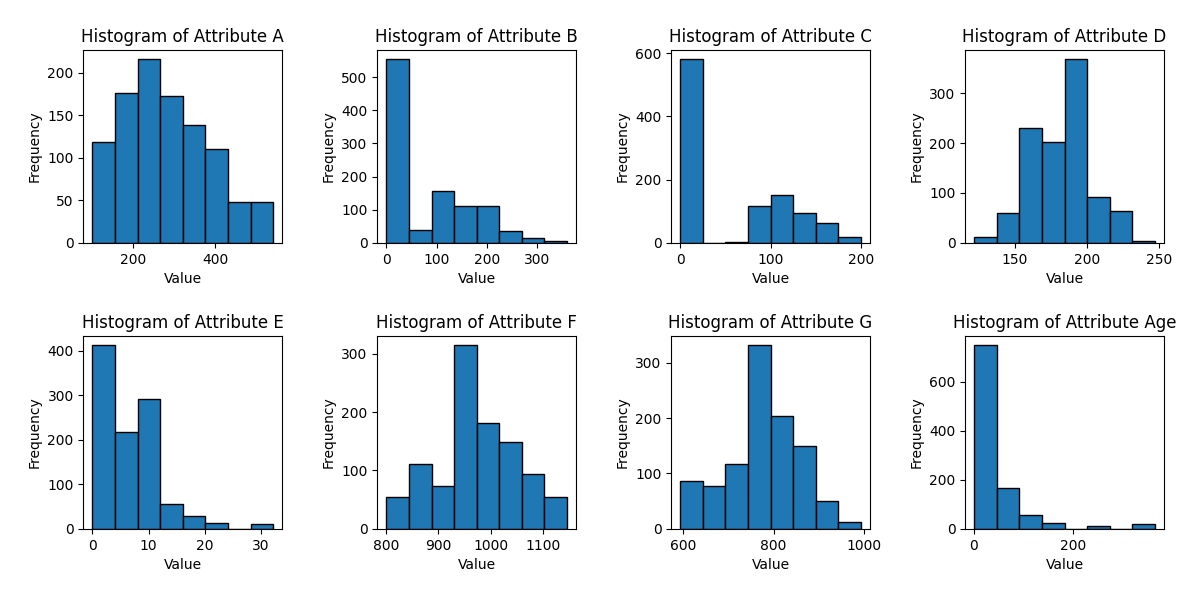
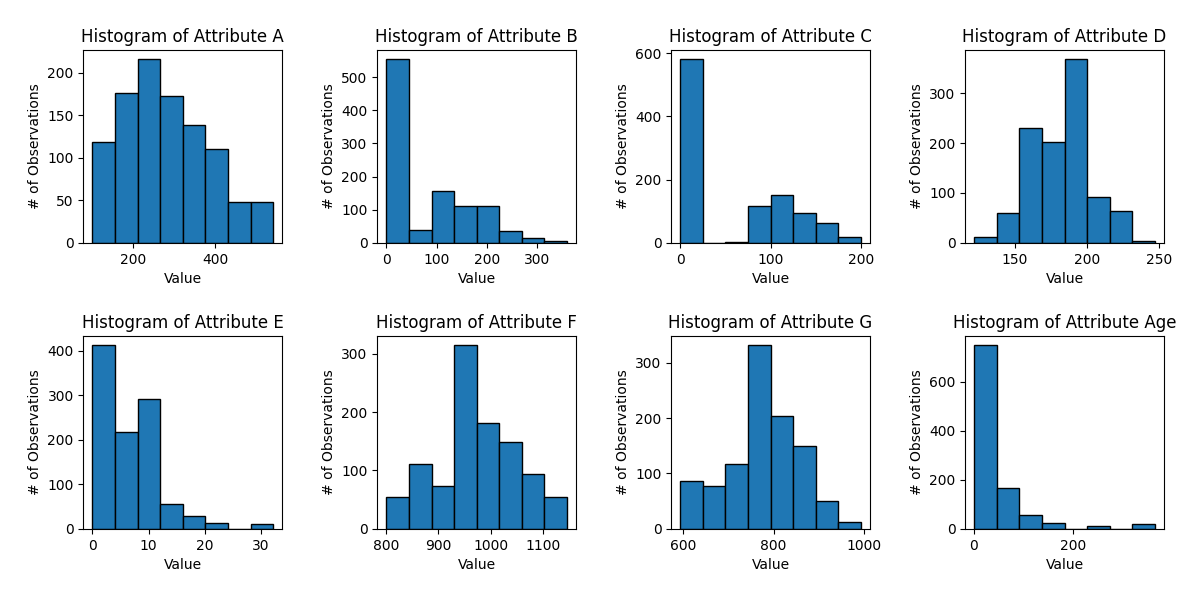
Updated Histogram Chart

diff --git a/visualization.py b/visualization.py
@@ -86,7 +86,7 @@ def histograms(df_vectors, attribute_labels):
 
         ax.hist(col_data, bins=8, edgecolor='black') 
         ax.set_xlabel('Value')
-        ax.set_ylabel('Number of Observations')
+        ax.set_ylabel('# of Observations')
         ax.set_title(f'Histogram of Attribute {attribute_labels[col]}')
         
     plt.tight_layout(pad=2.0)
